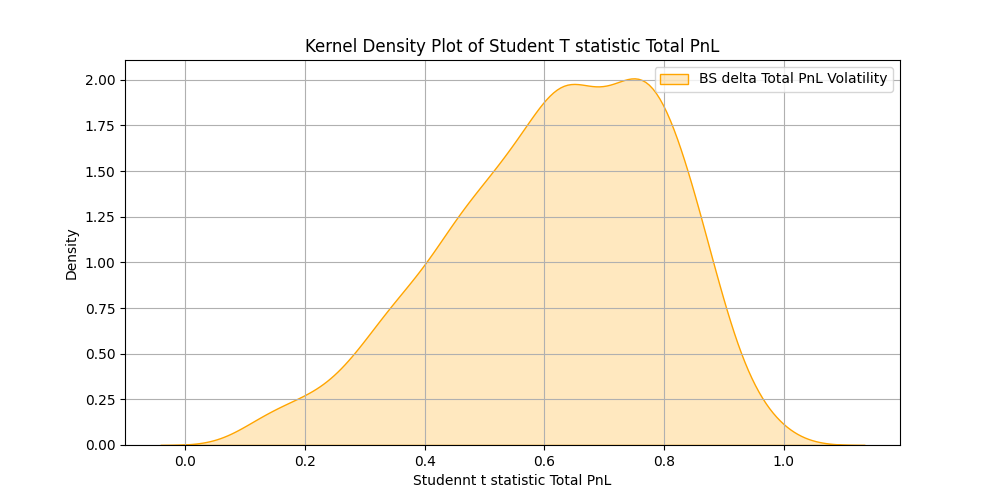
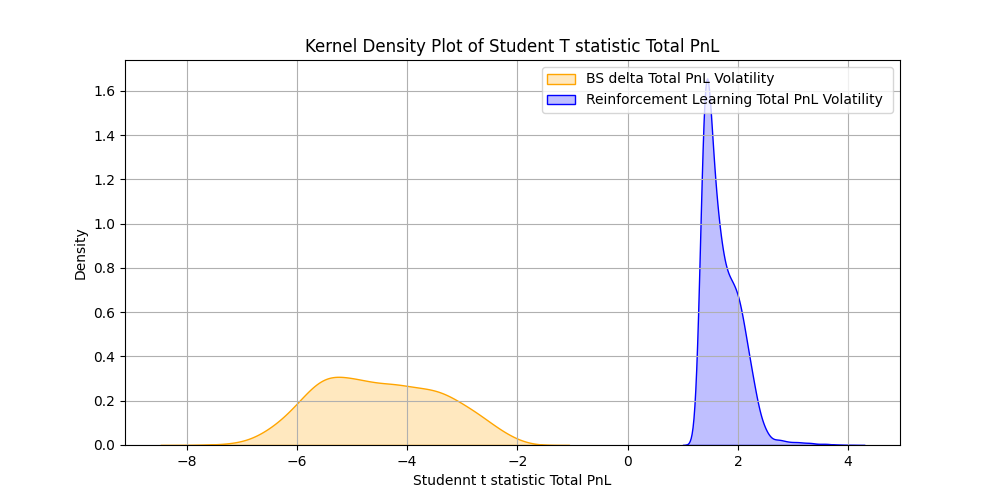
DDPG agent kernel Density plots under Kolm mu =0, sigma = 0.01

diff --git a/drl.py b/drl.py
@@ -122,9 +122,9 @@ class DRL:
         
         # Kernel density plot showing the total cost of delta hedging
         plt.figure(figsize=(10, 5))
-        sns.kdeplot(bs_total_cost, shade=True, label='BS delta Total Cost', color = "orange")
-        # sns.kdeplot(reinf_total_cost, shade=True, label='Reinforcement Learning Total Cost',
-        #             color = "blue")
+        sns.kdeplot(bs_total_cost, shade=True, label='BS delta Total Cost', color = "orange", bw_adjust=1.5)
+        sns.kdeplot(reinf_total_cost, shade=True, label='Reinforcement Learning Total Cost',
+                    color = "blue", bw_adjust=1.5)
         plt.xlabel("Total Cost")
         plt.ylabel("Density")
         plt.title('Kernel Density Plot of Total Cost')
@@ -135,9 +135,9 @@ class DRL:
 
         # Kernel density plot showing the total cost of delta hedging
         plt.figure(figsize=(10, 5))
-        sns.kdeplot(bs_total_pnl_vol, shade=True, label='BS delta Total PnL Volatility', color = "orange")
-        # sns.kdeplot(reinf_total_pnl_vol, shade=True, label='Reinforcement Learning Total PnL Volatility ',
-        #             color = "blue")
+        sns.kdeplot(bs_total_pnl_vol, shade=True, label='BS delta Total PnL Volatility', color = "orange", bw_adjust=1.5)
+        sns.kdeplot(reinf_total_pnl_vol, shade=True, label='Reinforcement Learning Total PnL Volatility ',
+                    color = "blue", bw_adjust=1.5)
         plt.xlabel("Total PnL Volatility")
         plt.ylabel("Density")
         plt.title('Kernel Density Plot of Total PnL Volatility')
@@ -148,9 +148,9 @@ class DRL:
 
         # Kernel density plot showing =the student T statistic of the total PnL
         plt.figure(figsize=(10, 5))
-        sns.kdeplot(bs_total_pnl_studentT, shade=True, label='BS delta Total PnL Volatility', color = "orange")
-        # sns.kdeplot(reinf_total_pnl_vol, shade=True, label='Reinforcement Learning Total PnL Volatility ',
-        #             color = "blue")
+        sns.kdeplot(bs_total_pnl_studentT, shade=True, label='BS delta Total PnL Volatility', color = "orange",bw_adjust=1.5, )
+        sns.kdeplot(reinf_total_pnl_vol, shade=True, label='Reinforcement Learning Total PnL Volatility ',
+                    color = "blue", bw_adjust=1.5)
         plt.xlabel("Studennt t statistic Total PnL")
         plt.ylabel("Density")
         plt.title('Kernel Density Plot of Student T statistic Total PnL')

diff --git a/ddpg_test.py b/ddpg_test.py
@@ -16,7 +16,7 @@ if __name__ == "__main__":
     tag = "6"
     
      # set init_ttm, spread, and other parameters according to the env that the model is trained
-    env_test = TradingEnv(continuous_action_flag=True, sabr_flag=False, dg_random_seed=None, spread=0.01, num_contract=1, init_ttm=90, trade_freq=1, num_sim=1000)
+    env_test = TradingEnv(continuous_action_flag=True, sabr_flag=False, dg_random_seed=None, spread=0.01, num_contract=1, init_ttm=10, trade_freq=0.2, num_sim=10000)
     ddpg_test = DDPG(env_test)
 
     print("\n\n***")
@@ -30,7 +30,7 @@ if __name__ == "__main__":
             print("Testing model saved at " + tag + "K episode.")
         ddpg_test.load(tag=tag)
 
-    ddpg_test.test(1000, delta_flag=delta_action_test, bartlett_flag=bartlett_action_test)
+    ddpg_test.test(10000, delta_flag=delta_action_test, bartlett_flag=bartlett_action_test)
 
     # for i in range(1, 51):
     #     tag = str(i)

diff --git a/utils.py b/utils.py
@@ -60,10 +60,10 @@ def get_sim_path(M, freq, np_seed, num_sim):
     # num_sim = 1000000
 
     # Annual Return
-    mu = 0.05 # 0.05
+    mu = 0 # 0.05
 
     # Annual Volatility
-    vol = 0.2 # 0.2
+    vol = 0.01 # 0.2
 
     # Initial Asset Value
     S = 100
